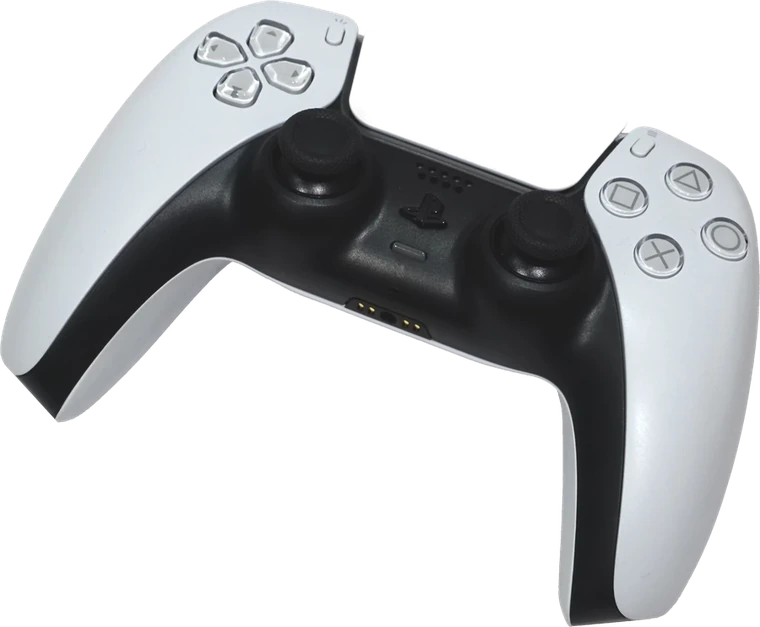
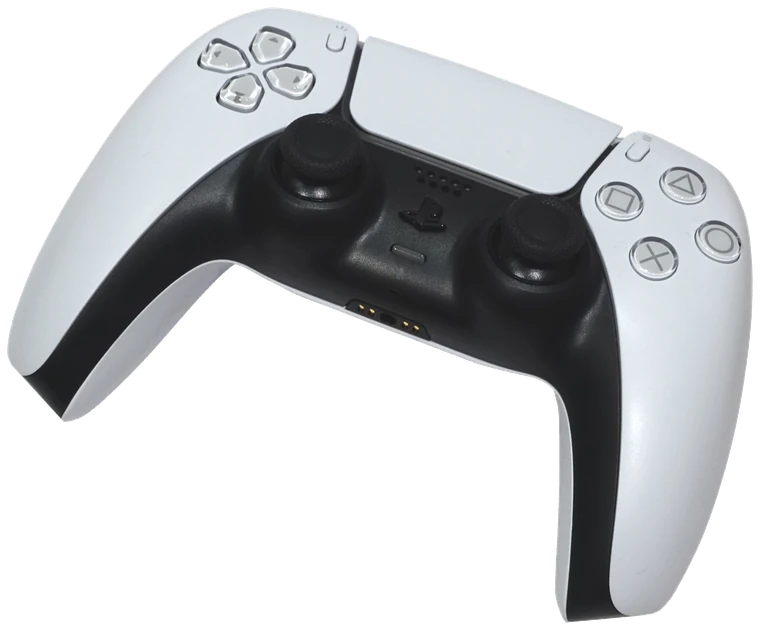
Restore DualSense front face in the cutout
The previous mask punched out the dark center of the pad; rebuild the
asset with a strict white-background flood fill so the face stays intact.

diff --git a/redesigns/playstation/index.html b/redesigns/playstation/index.html
@@ -109,7 +109,7 @@
         <div class="hero-halo" aria-hidden="true"></div>
         <div class="hero-shadow" aria-hidden="true"></div>
         <img class="hero-group" id="heroGroup" src="assets/ps5-group.webp" width="700" height="1300" alt="PlayStation 5 console with a DualSense wireless controller." fetchpriority="high" decoding="async">
-        <img class="hero-pad" id="heroPad" src="assets/dualsense.webp" width="760" height="627" alt="DualSense wireless controller." loading="lazy" decoding="async">
+        <img class="hero-pad" id="heroPad" src="assets/dualsense.webp?v=20260813-pad2" width="760" height="630" alt="DualSense wireless controller." loading="lazy" decoding="async">
         <figure class="hero-bundle" id="heroBundle" aria-hidden="true">
           <img src="assets/tile-asterfall.webp" width="640" height="360" alt="" loading="lazy" decoding="async">
           <figcaption><strong>Aster Fall</strong><span>Included</span></figcaption>
@@ -327,7 +327,7 @@
           <p>Haptic feedback, adaptive triggers, built-in microphone and a create button, in a shape that stays comfortable for long sessions.</p>
           <p class="acc-price">$74.99</p>
         </div>
-        <img src="assets/dualsense.webp" width="760" height="627" alt="DualSense wireless controller." loading="lazy" decoding="async">
+        <img src="assets/dualsense.webp?v=20260813-pad2" width="760" height="630" alt="DualSense wireless controller." loading="lazy" decoding="async">
       </article>
 
       <article class="acc acc--tone acc--tone-a">
